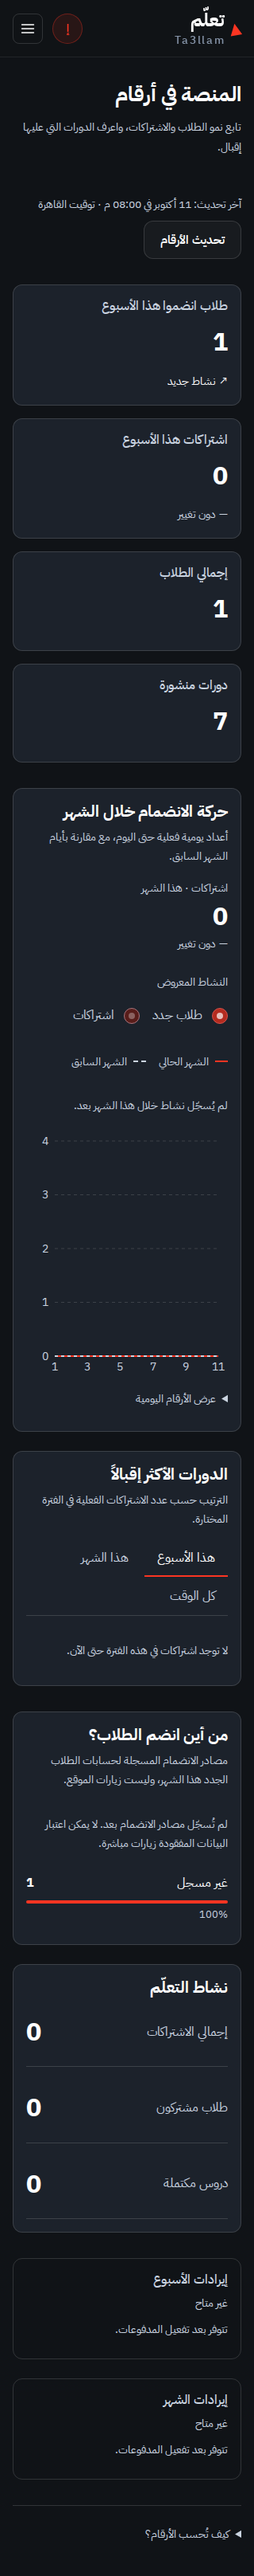
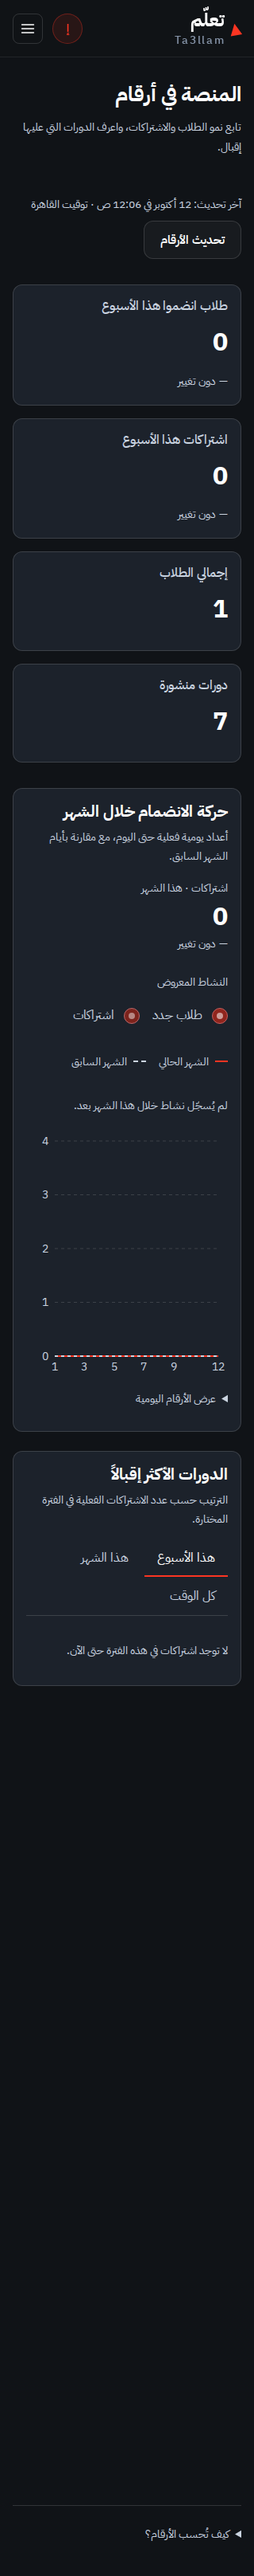
Verify hosted loading improvements and viewport deferral

diff --git a/docs/PERFORMANCE_LOADING.md b/docs/PERFORMANCE_LOADING.md
@@ -19,6 +19,28 @@ The isolated backend suite passed 190 checks, including guest/student denial, co
 
 Reproduce timing collection with `TARGET_URL=https://ta3allam.vercel.app OUTPUT=docs/evidence/performance-2026-10-11/live-after.json node tests/backend/performance-live.cjs`, using the ignored local admin credentials. No personal data, tokens, or passwords are written to the report. The local production probe is recorded in `local-after.json`: all five admin hard navigations make zero browser session checks; account/admin reveal targets register correctly. Its first home image transfer was about 270KB versus the older live baseline of 960KB. These environments differ, so this is not a live speed comparison. Six media/responsive tests passed.
 
-Commit `48b33df` is pushed. GitHub’s latest recorded Vercel deployment still points to `75ef4df`; no deployment/check entry exists for `48b33df` at the time of checking. The attempted live comparison in `live-still-previous-build.json` still has the old initial session calls/image bytes and must not be presented as the new code. The user was asked for the Vercel deployment status/error; hosted region and speed verification remain pending.
+## Hosted verification — 2026-10-12
+
+GitHub now records successful Vercel deployments for application commit `48b33df` and checkpoint commit `5836f27`. The production response identifies `fra1::lhr1`, confirming London function execution. The earlier `live-still-previous-build.json` captured the previous deployment and is excluded from the comparison.
+
+The same read-only probe now records `live-after.json`, with zero browser runtime errors and zero initial browser session requests across all five admin routes. The first home image transfer is 269,557 bytes versus 959,982 bytes before (about 72% less). Observed load-event timings are shown below. These are single diagnostic runs on different days with browser-cache effects and variable network/server warmth; they are evidence of current behavior, not guaranteed timings or a Core Web Vitals score.
+
+| Route | Before load event | After load event |
+| --- | ---: | ---: |
+| `/` | 1680ms | 851ms |
+| `/courses` | 491ms | 381ms |
+| `/founder` | 1146ms | 966ms |
+| `/workshops/7days-freelance` | 460ms | 463ms |
+| `/login` | 446ms | 257ms |
+| `/signup` | 349ms | 146ms |
+| `/admin/dashboard` | 1239ms | 288ms |
+| `/admin/dashboard/users` | 1439ms | 345ms |
+| `/admin/dashboard/settings` | 1327ms | 355ms |
+| `/admin/dashboard/courses` | 1525ms | 302ms |
+| `/admin/dashboard/phone-confirmations` | 1678ms | 383ms |
+
+Hosted analytics and settings acceptance passed, including responsive widths, desktop card alignment, protected analytics API, period tabs and navigation. Seven further hosted viewport/media assertions passed (`live-viewport.json`): offscreen mobile chart absent, chart mounts near view, admin panels register fade targets, reduced motion skips effects, no MP4 retrieval before play, lazy player activates, and instructor image uses Next optimization. No runtime errors were observed.
+
+Optional heavy charts and playback code are deferred; images use browser lazy loading. Server-rendered text, links and forms remain available immediately. This avoids delaying searchable content or fragment navigation in pursuit of blanket component laziness.
 
 References: [Supabase SSR clients and verified claims](https://supabase.com/docs/guides/auth/server-side/creating-a-client?queryGroups=framework&framework=nextjs), [Vercel function regions](https://vercel.com/docs/functions/configuring-functions/region). Implementation followed installed Next 16.3.8 lazy-loading/image/caching documentation.

diff --git a/WORK_CHECKPOINT.md b/WORK_CHECKPOINT.md
@@ -1,6 +1,6 @@
 # Work checkpoint — Khatab / Ta3llam
 
-Last updated: **2026-10-11**. This file records the actual implementation and verification state. Update it after meaningful changes or check runs; never turn an unfinished gate into a completed checkbox without evidence.
+Last updated: **2026-10-12**. This file records the actual implementation and verification state. Update it after meaningful changes or check runs; never turn an unfinished gate into a completed checkbox without evidence.
 
 ## Latest checkpoint — measured loading bottlenecks and viewport deferral
 
@@ -8,7 +8,7 @@ Last updated: **2026-10-11**. This file records the actual implementation and ve
 - Initial server-authorized dashboards now render immediately; client navigation and history/BFCache restores still verify sessions. Cached role/student-state reads are request-scoped, and student layout reads run concurrently. Verified claims refresh in Proxy; live server authorization remains in place.
 - Configured London functions, enabled optimized local images/existing instructor WebP, split playback imports until play, and deferred chart plotting near view with reserved height. Extended the existing fade/reduced-motion engine to protected panels and public account screens.
 - Passed 190 isolated backend checks and 11 performance checks, production build/TypeScript, lint and architecture. Local production analytics/settings checks passed. Details and measurement limits: `docs/PERFORMANCE_LOADING.md`.
-- Application commit `48b33df` is pushed. Local production probe confirms zero initial session checks across all five admin pages; 6/6 media tests passed. Hosted verification is pending: GitHub/Vercel still records `75ef4df` as the latest deployment, with no new deployment entry. The live probe still sees old behavior, so no live performance improvement is claimed. Asked the user for Vercel deployment status/error.
+- Application commit `48b33df` and checkpoint `5836f27` are successfully deployed. Hosted response confirms London execution. Live comparison records zero initial session checks across all five admin pages and roughly 72% less first-home image transfer. Observed admin load events changed from 1.2–1.7s to 0.29–0.38s in single diagnostic runs, not a guaranteed benchmark. Hosted responsive analytics/settings checks and seven additional viewport/media checks passed with zero runtime errors. Local 6/6 media tests passed. Full results and limits are recorded in `docs/PERFORMANCE_LOADING.md` and `docs/evidence/performance-2026-10-11/`.
 
 ## Latest checkpoint — aligned settings card heights
 
